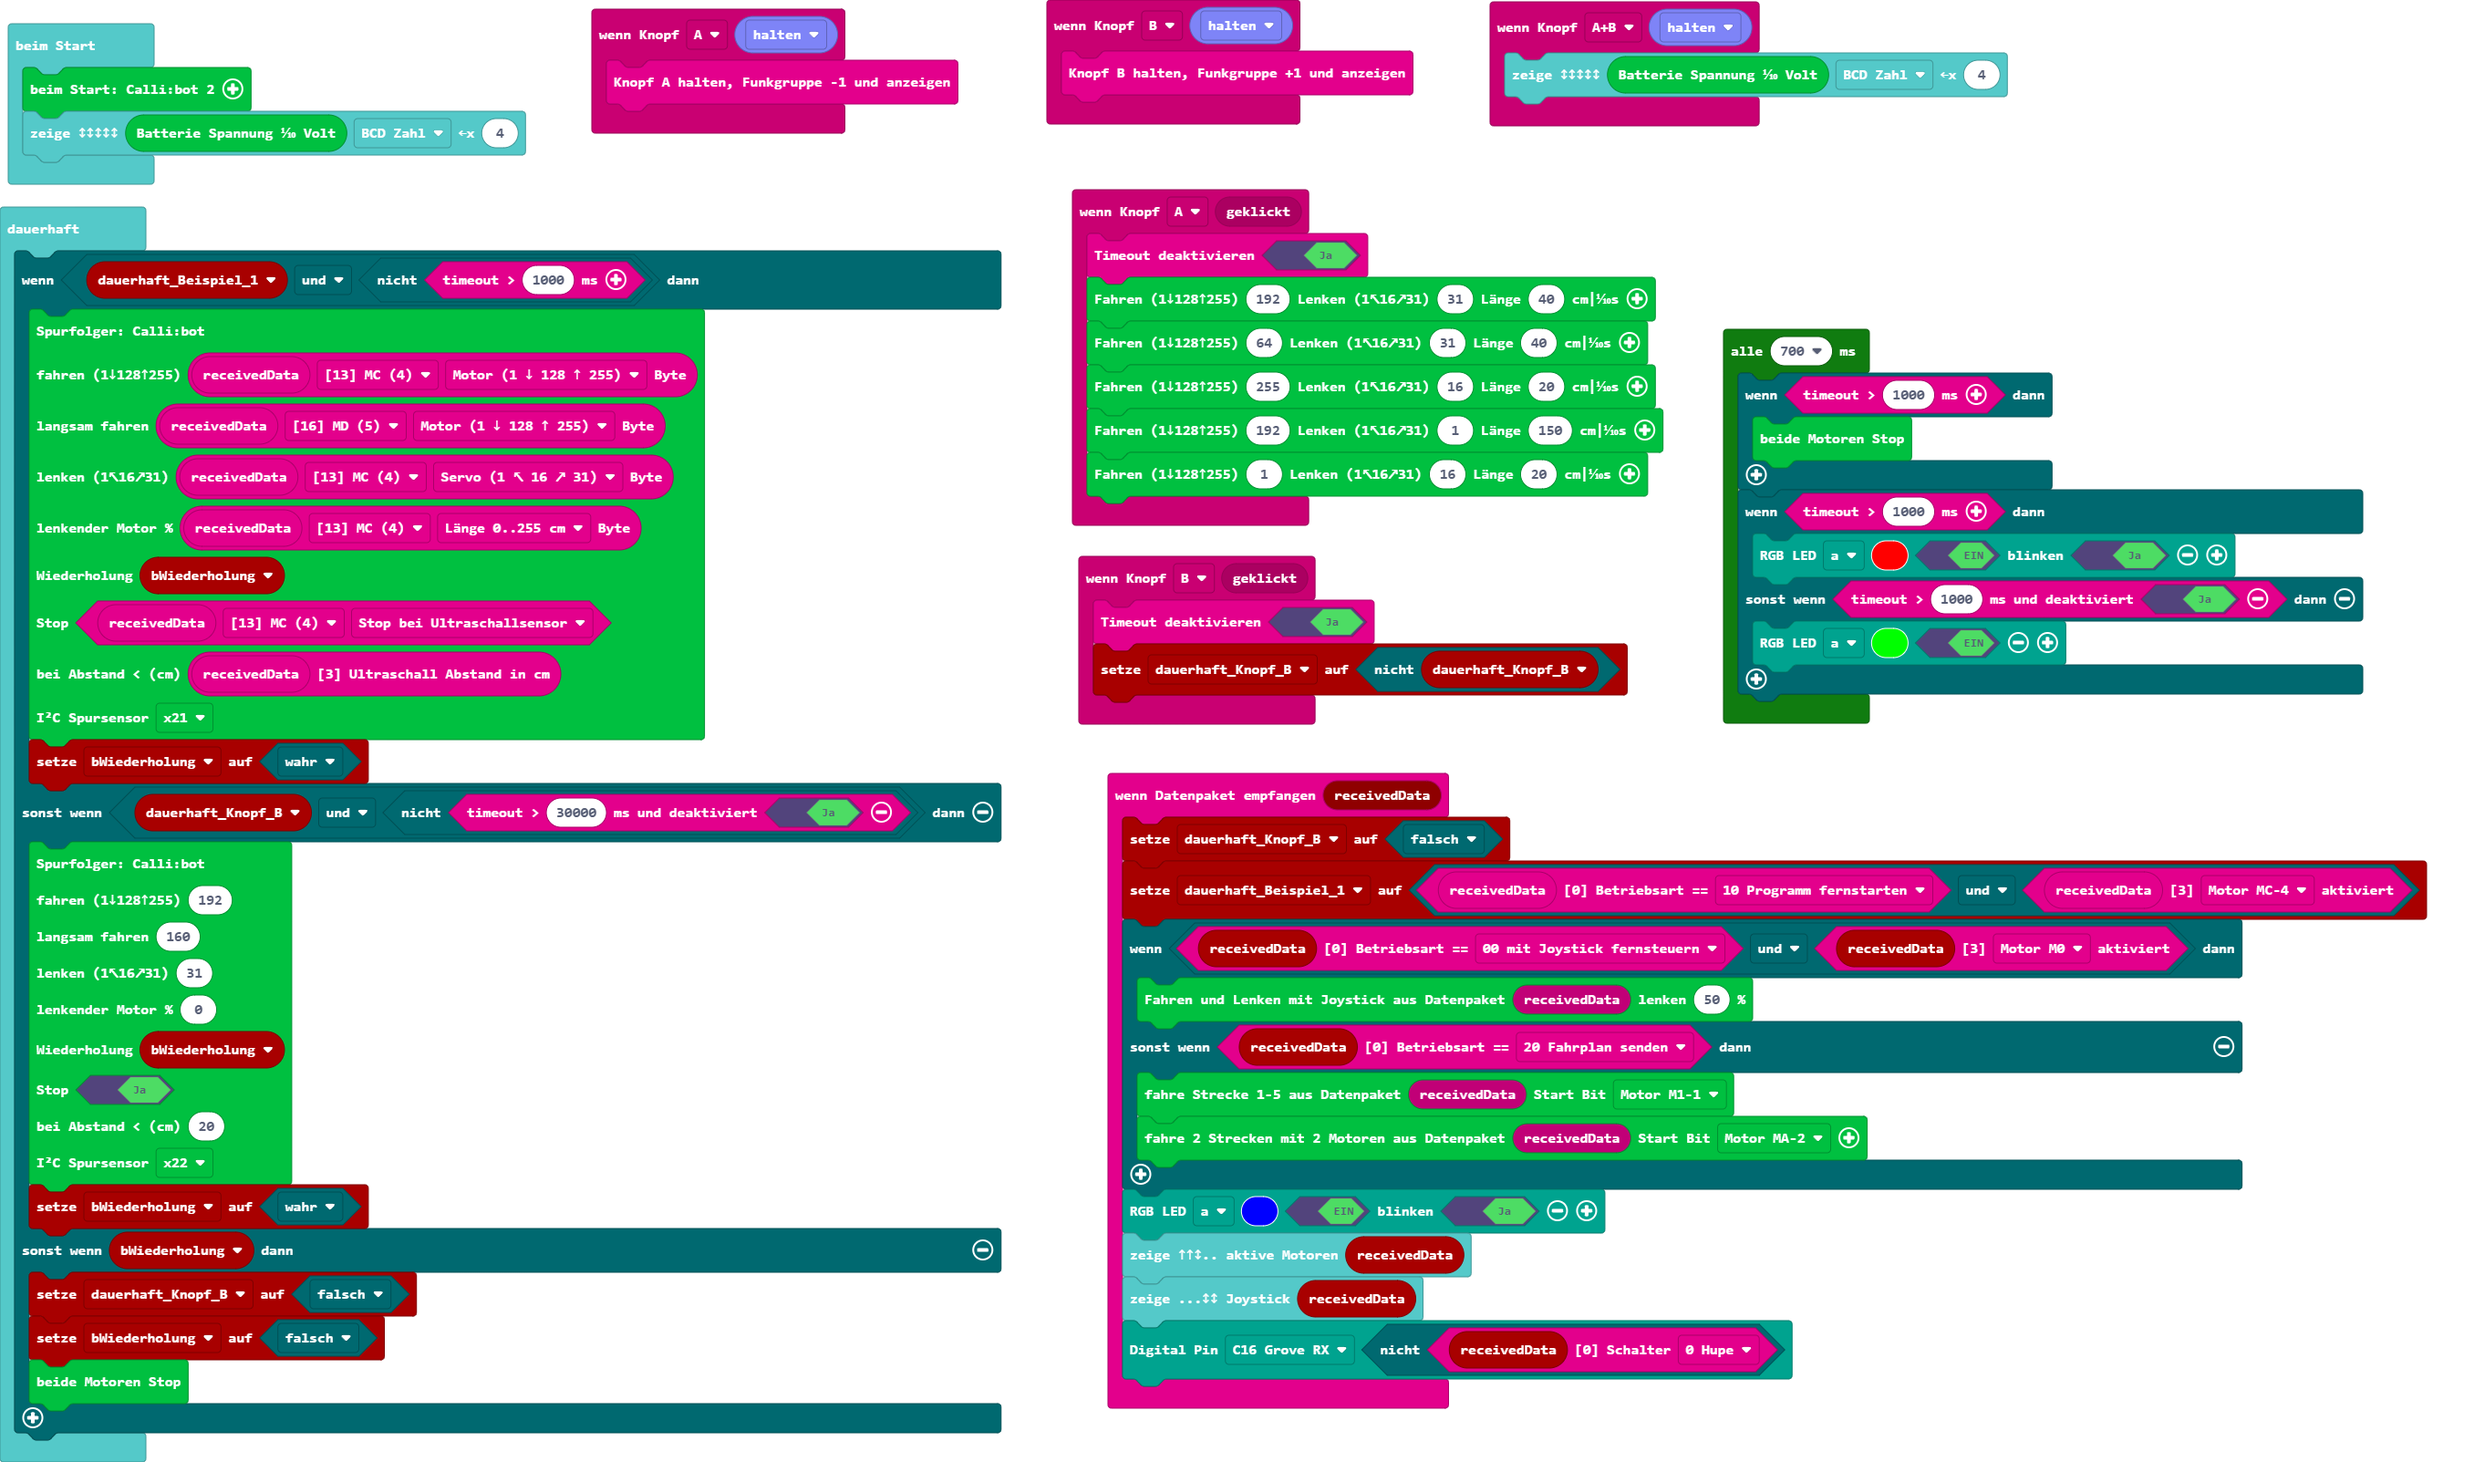
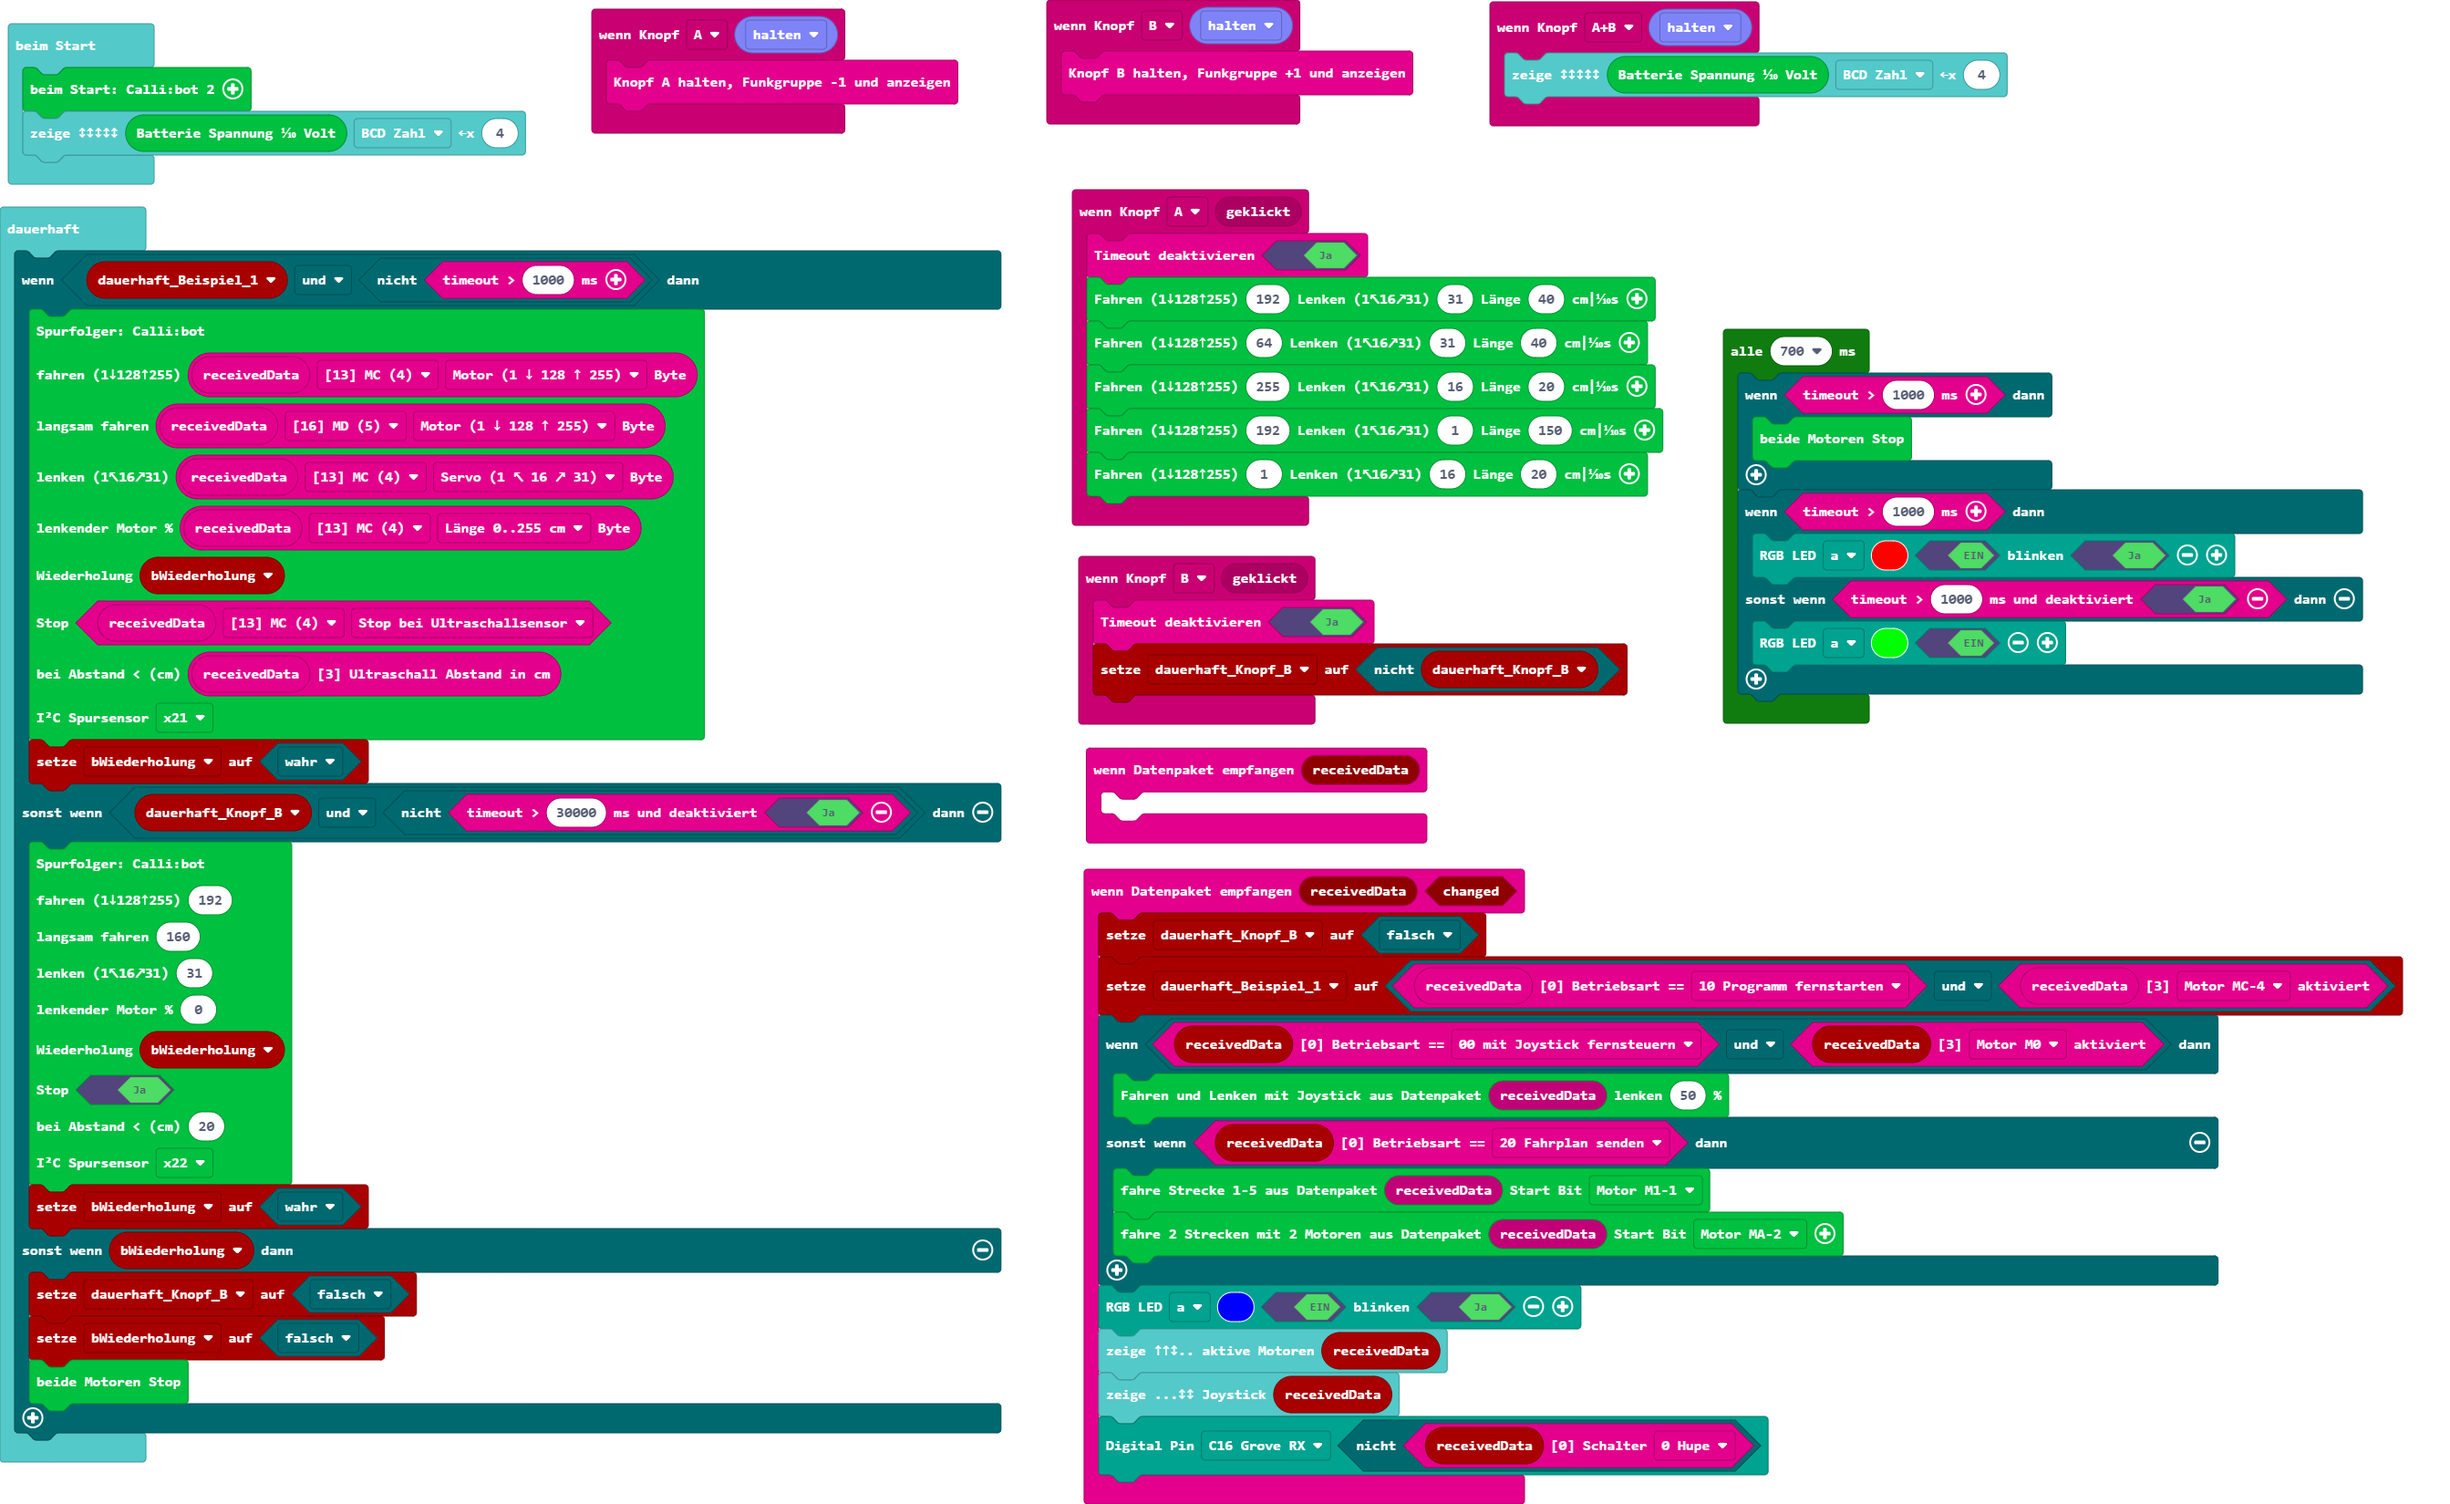
Aktualisiere pxt.json, main.blocks, main.ts

diff --git a/main.ts b/main.ts
@@ -16,7 +16,7 @@ input.onButtonEvent(Button.B, input.buttonEventClick(), function () {
 input.onButtonEvent(Button.B, btf.buttonEventValue(ButtonEvent.Hold), function () {
     btf.buttonBhold()
 })
-btf.onReceivedData(function (receivedData) {
+btf.onReceivedDataChanged(function (receivedData, changed) {
     dauerhaft_Knopf_B = false
     dauerhaft_Beispiel_1 = btf.isBetriebsart(btf.btf_receivedBuffer19(), btf.e0Betriebsart.p1Lokal) && btf.getaktiviert(btf.btf_receivedBuffer19(), btf.e3aktiviert.mc)
     if (btf.isBetriebsart(receivedData, btf.e0Betriebsart.p0Fahren) && btf.getaktiviert(receivedData, btf.e3aktiviert.m0)) {
@@ -29,6 +29,9 @@ btf.onReceivedData(function (receivedData) {
     btf.zeige5x5Buffer(receivedData)
     btf.zeige5x5Joystick(receivedData)
     receiver.digitalWritePin(receiver.eDigitalPins.C16, !(btf.getSchalter(receivedData, btf.e0Schalter.b0)))
+})
+btf.onReceivedData(function (receivedData) {
+	
 })
 input.onButtonEvent(Button.A, btf.buttonEventValue(ButtonEvent.Hold), function () {
     btf.buttonAhold()
